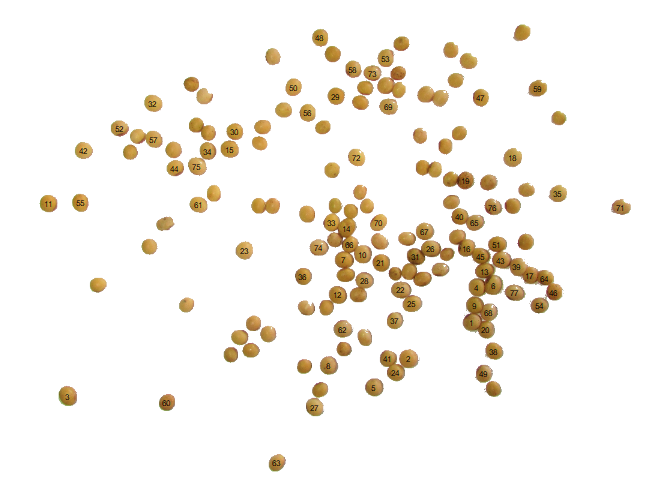
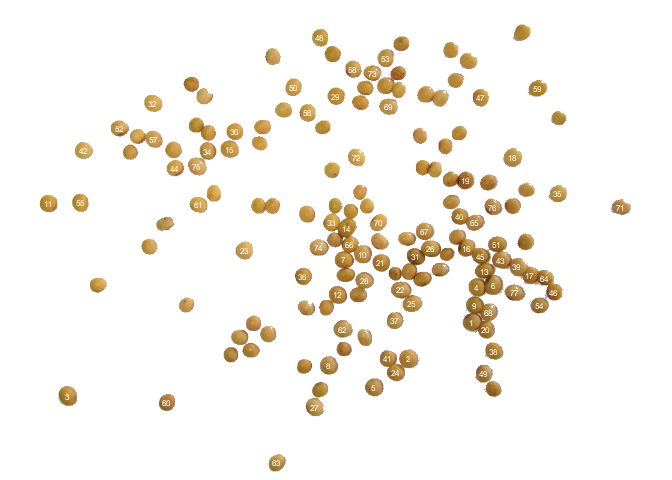
Update readme

diff --git a/README.md b/README.md
@@ -106,7 +106,7 @@ count_objects(img,
               marker = "text",
               lower_size = 611.92,
               marker_size = 0.5,
-              marker_col = "black")
+              marker_col = "white")
 ```
 
 ![](man/figures/README-unnamed-chunk-6-1.png)<!-- -->
